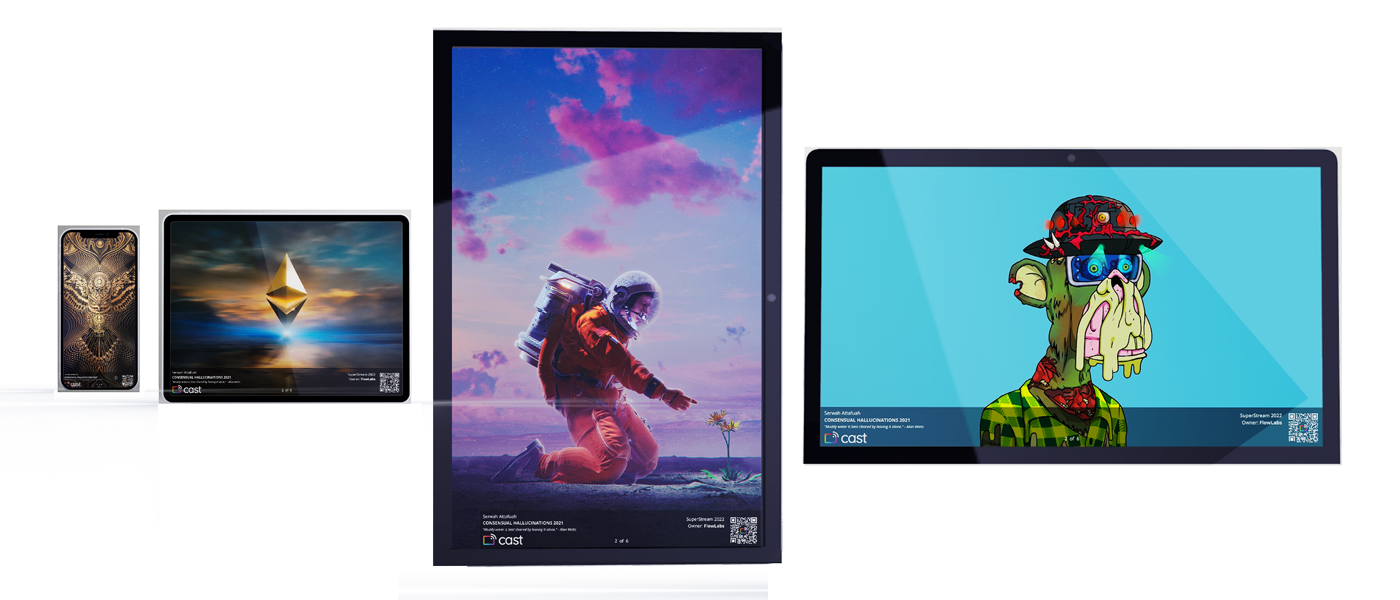
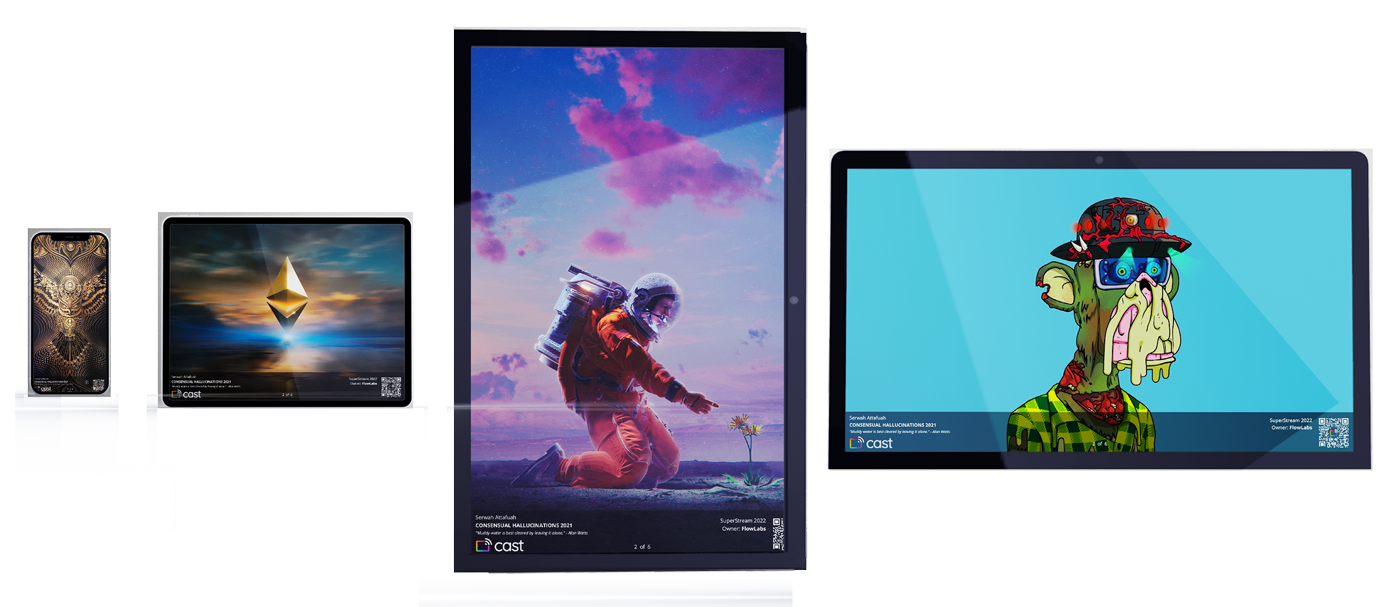
Add files via upload

diff --git a/index.html b/index.html
@@ -118,6 +118,13 @@
                         <div class="single-logo mt-30 wow fadeIn" data-wow-duration="1.5s" data-wow-delay="0.5s">
                             <img src="assets/images/brand-5.png" alt="brand">
                         </div> <!-- single logo -->
+						<div class="single-logo mt-30 wow fadeIn" data-wow-duration="1.5s" data-wow-delay="0.5s">
+                            <img src="assets/images/brand-6.png" alt="brand">
+                        </div> <!-- single logo -->
+						<div class="single-logo mt-30 wow fadeIn" data-wow-duration="1.5s" data-wow-delay="0.5s">
+                            <img src="assets/images/brand-7.png" alt="brand">
+                        </div> <!-- single logo -->
+						
                     </div> <!-- brand logo -->
                 </div>
             </div>   <!-- row -->
@@ -130,8 +137,7 @@
                 <div class="row">
                     <div class="col-lg-6">
                         <div class="subscribe-content mt-45 pt-10">
-                            
-						<p style="font-size: 22px;"><strong>Submit email to be considered for our beta luanch program. Limited spots available.</strong></p>
+                          <p style="font-size: 22px;"><strong>Submit email to be considered for our beta launch program. Limited spots available.</strong></p>
                         </div>
                     </div>
                     <div class="col-lg-6">

diff --git a/assets/css/style.css b/assets/css/style.css
@@ -806,12 +806,11 @@ p {
 .header-hero-image {
   padding-top: 45px; }
   .header-hero-image img {
-    max-width: 1040px;
-    padding-left: 90px;}
+    max-width: 100%; }
     @media (max-width: 767px) {
       .header-hero-image img {
         max-width: 100%;
-		padding-left: 0px } }
+		 				 } }
   @media (max-width: 767px) {
     .header-hero-image {
       padding-top: 30px; } }
